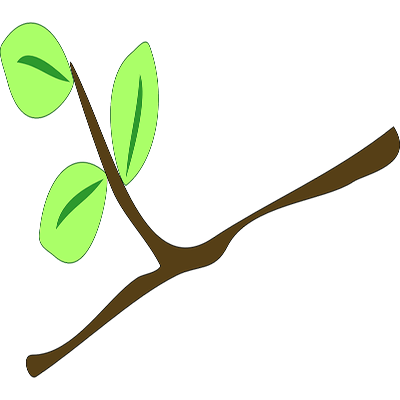
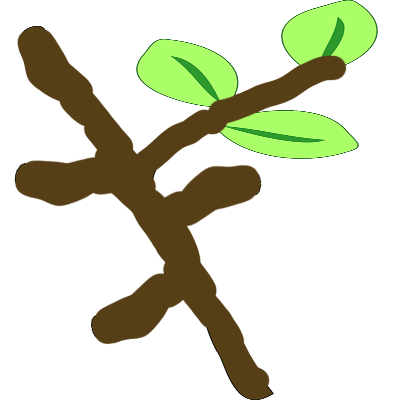
added CR graphics

diff --git a/Game/src/Files/Model.java b/Game/src/Files/Model.java
@@ -86,7 +86,7 @@ public class Model{
 	static final int LEVEL_END = 100001;
 	static final int PREDATOR_SIZE = 50;
 	static final int PREDATOR_SPACE = PREDATOR_SIZE*4;
-	static final int DEFAULT_BUSH_ALPHA = 50;
+	static final int DEFAULT_BUSH_ALPHA = 100;
 	static final int MAX_HEALTH = 100;
 	static final int DEFAULT_RK_X = 100;
 	static final int PREDS_DISABLE_TUTORIAL = 50;
@@ -250,10 +250,10 @@ public class Model{
     		//System.out.println("Clapper Rail Tutorial");
 			clapperRail = new ClapperRail(150, 200);
 			gameMode = CLAPPERRAIL0;
-			spawnObject(twigString, 200,400, 0); //Spawn twig at 200(x) 400(y)
-			spawnObject(twigString, 300,100, 0); //Spawn twig at 300(x) 100(y)
-			spawnObject(bushString, 500,200, 0);//Spawn bush at 500(x) 200(y)
-			spawnObject(predStr, 500, 300, 0);//Spawn predator at 500(x) 300(y)
+			spawnObject(twigString, 500, 50, 0); //Spawn twig at 200(x) 400(y)
+			spawnObject(twigString, 300, 100, 0); //Spawn twig at 300(x) 100(y)
+			spawnObject(bushString, 500, 200, 0);//Spawn bush at 500(x) 200(y)
+			spawnObject(predStr, 500, 150, 0);//Spawn predator at 500(x) 300(y)
 			break;
     	case(1):
     		//System.out.println("Clapper Rail Level 1");
@@ -264,7 +264,7 @@ public class Model{
 	    	spawnObject(twigString, 300,250,60);
 	    	spawnObject(twigString, 350,300,80);
 	    	spawnObject(twigString, 500,150,100);
-	    	spawnObject(bushString, 500,200,0);//Spawn bush at 500(x) 200(y)
+	    	spawnObject(bushString, 500,200, 0);//Spawn bush at 500(x) 200(y)
 	    	spawnObject(predStr, 500, 300, 0);//Spawn predator at 500(x) 300(y)
 	    	spawnObject(predStr, 400, 100, 0);
     		break;
@@ -277,7 +277,7 @@ public class Model{
 	    	spawnObject(twigString, 100,350,60);
 	    	spawnObject(twigString, 400,350,80);
 	    	spawnObject(twigString, 500,500,100);
-	    	spawnObject(bushString, 500,450, 0);
+	    	spawnObject(bushString, 500,200, 0);//Spawn bush at 500(x) 200(y)
 	    	spawnObject(predStr, 500, 300, 0);
 	    	spawnObject(predStr, 300, 400, 0);
 	    	spawnObject(predStr, 600, 500, 0);
@@ -292,7 +292,7 @@ public class Model{
 	    	spawnObject(twigString, 350,300,60);
 	    	spawnObject(twigString, 400,150,80);
 	    	spawnObject(twigString, 550,100,100);
-	    	spawnObject(bushString, 500,200,0);
+	    	spawnObject(bushString, 500,200, 0);//Spawn bush at 500(x) 200(y)
 	    	spawnObject(predStr, 500, 300, 0);
 	    	spawnObject(predStr, 300, 200, 0);
 	    	spawnObject(predStr, 600, 500, 0);
@@ -387,11 +387,11 @@ public class Model{
 		    			if(twigCount>0 && bushCount<bushMax) {
 		    				bushCount += twigCount;
 		    				//System.out.println(bushCount);
-		    				bushTrans += DEFAULT_BUSH_ALPHA*twigCount; //increment bush transparency 
+		    				//bushTrans += DEFAULT_BUSH_ALPHA*twigCount; //increment bush transparency 
 		    				//System.out.println(bushTrans);
 		    				twigCount = 0;
 		    			}else if(twigCount>0 && bushCount == bushMax) {
-		    				
+		    				//System.out.println("checkpoint");
 		    			}
 		    		}
 		    	}

diff --git a/Game/src/Files/View.java b/Game/src/Files/View.java
@@ -26,6 +26,7 @@ public class View extends JPanel{
     private int frameNum = 0;
     private int frameCount = 2;
     private int deathToll;
+    private int twigCount;
     private JFrame frame;
 
 	int count;
@@ -143,7 +144,7 @@ public class View extends JPanel{
 				"arrowMap", "redKnot", "falcon", "myth", "boss", "rt-hawk", "new-twig", "quizRK",
 				"arrowKeys", "ptr", "loserScreen", "map", "rightKey", "rkWinScreen",
 				"BushPT", "clapperRailPlr", "bush1", "bush2", "bush3", "bush4", "mm-start",
-				"mm-quarter", "mm-half", "mm-threequarters", "mm-end"};
+				"mm-quarter", "mm-half", "mm-threequarters", "mm-end", "CRbkg"};
 				
 		for(String s: arrOfStr) {
 			BufferedImage newImg = createImage(s);
@@ -250,15 +251,35 @@ public class View extends JPanel{
 		case(CLAPPERRAIL1): //Cycle through all levels
 		case(CLAPPERRAIL2):
 		case(CLAPPERRAIL3):// Clapper Rail Game View Logic
+			g.drawImage((BufferedImage)pics.get("CRbkg"), 0, 0, frameWidth, frameHeight, this);
 			allObj = Model.getAllObjects(withoutPlayer, withPreds);
 			predators = Model.getPredators();
+			g.setColor(Color.ORANGE);
 			for(GamePiece gp: allObj) {
 				g.setColor(getColor(gp.toString()));
 				if(gp instanceof Twig)
 					g.drawImage((BufferedImage)pics.get("new-twig"), gp.getX(), gp.getY(), 50, 50, this);
-				if(gp instanceof Bush)
-					g.fillRect(gp.getX(), gp.getY(), 50, 50);
-
+				if(gp instanceof Bush) {
+					twigCount = Model.bushCount;
+					switch(twigCount) {
+					case(0):
+						g.fillRect(gp.getX(), gp.getY(), 50, 50);
+						break;
+					case(1):
+						g.drawImage((BufferedImage)pics.get("bush1"), gp.getX(), gp.getY(), 50, 50, this);
+						break;
+					case(2):
+						g.drawImage((BufferedImage)pics.get("bush2"), gp.getX(), gp.getY(), 50, 50, this);
+						break;
+					case(3):
+						g.drawImage((BufferedImage)pics.get("bush3"), gp.getX(), gp.getY(), 50, 50, this);
+						break;
+					case(4):
+						g.drawImage((BufferedImage)pics.get("bush4"), gp.getX(), gp.getY(), 50, 50, this);
+						break;
+					}
+					
+				}
 			}
 
 			for(Animal p: predators) {
